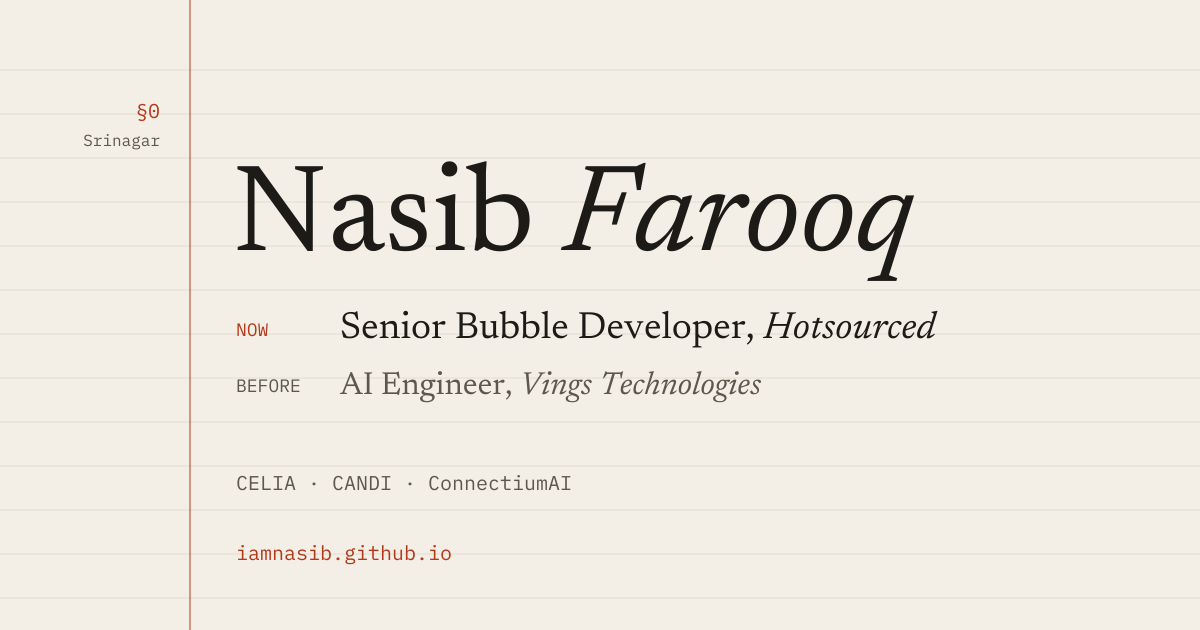
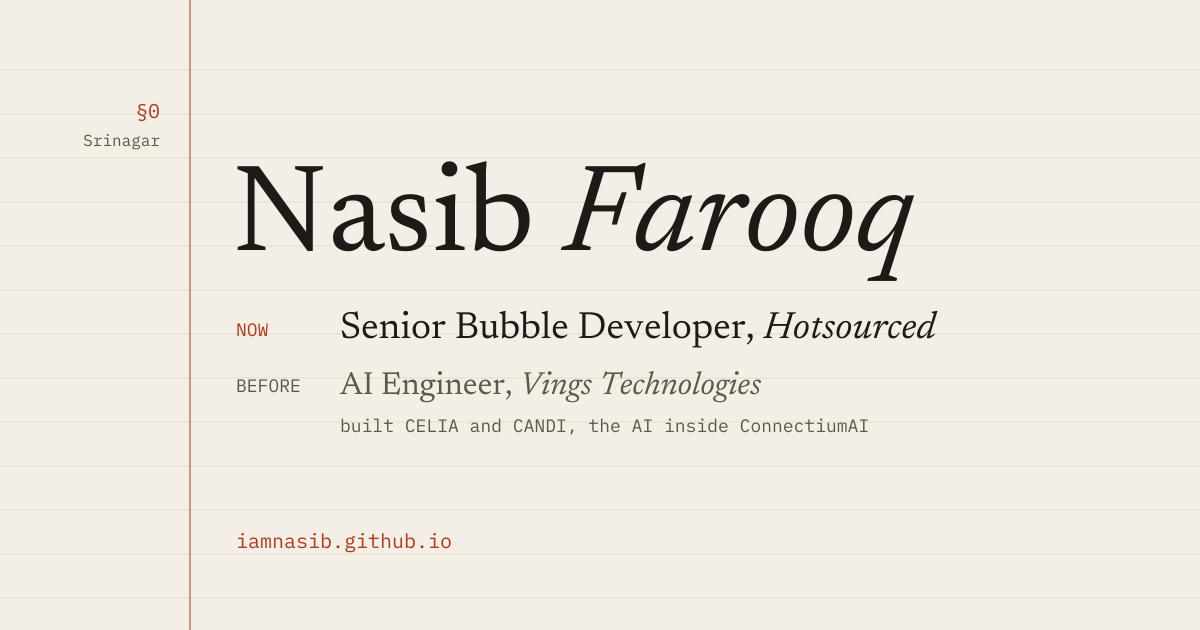
Show CELIA and CANDI as parts of ConnectiumAI
- Share card: replace the flat "CELIA · CANDI · ConnectiumAI" line with
  "built CELIA and CANDI, the AI inside ConnectiumAI" under BEFORE;
  Hotsourced stays in the NOW line. og:image bumped to ?v=3
- Intro paragraph names ConnectiumAI as the platform they belong to
- §1/§2 margins: "part of ConnectiumAI"; contents §3 "Rest of ConnectiumAI"
- Meta descriptions use the same hierarchy and are shorter

Claude-Session: https://claude.ai/code/session_016WbChNEPCDqHJiR2x3LwX9

diff --git a/index.html b/index.html
@@ -16,7 +16,7 @@
     <title>Nasib Farooq — Senior Bubble Developer &amp; AI Engineer</title>
     <meta
       name="description"
-      content="Nasib Farooq, Senior Bubble Developer at Hotsourced and AI engineer. Built CELIA, a production voice interviewer, and CANDI, a RAG candidate search, at Vings Technologies."
+      content="Nasib Farooq, Senior Bubble Developer at Hotsourced and AI engineer. Built CELIA (voice interviewer) and CANDI (RAG search), the AI inside ConnectiumAI."
     />
     <meta name="author" content="Nasib Farooq" />
 
@@ -26,10 +26,10 @@
     <meta property="og:title" content="Nasib Farooq — Senior Bubble Developer &amp; AI Engineer" />
     <meta
       property="og:description"
-      content="Senior Bubble Developer at Hotsourced. Built CELIA, a voice interviewer, and CANDI, a RAG candidate search, at Vings Technologies."
+      content="Senior Bubble Developer at Hotsourced. Built CELIA and CANDI, the AI inside ConnectiumAI."
     />
     <meta property="og:url" content="https://iamnasib.github.io/" />
-    <meta property="og:image" content="https://iamnasib.github.io/og-image.png?v=2" />
+    <meta property="og:image" content="https://iamnasib.github.io/og-image.png?v=3" />
     <meta property="og:image:width" content="1200" />
     <meta property="og:image:height" content="630" />
     <meta property="og:image:alt" content="Nasib Farooq — Senior Bubble Developer &amp; AI Engineer" />
@@ -42,9 +42,9 @@
     <meta name="twitter:title" content="Nasib Farooq — Senior Bubble Developer &amp; AI Engineer" />
     <meta
       name="twitter:description"
-      content="Senior Bubble Developer at Hotsourced. Built CELIA, a voice interviewer, and CANDI, a RAG candidate search, at Vings Technologies."
+      content="Senior Bubble Developer at Hotsourced. Built CELIA and CANDI, the AI inside ConnectiumAI."
     />
-    <meta name="twitter:image" content="https://iamnasib.github.io/og-image.png?v=2" />
+    <meta name="twitter:image" content="https://iamnasib.github.io/og-image.png?v=3" />
 
     <!-- Structured data: Person -->
     <script type="application/ld+json">
@@ -53,14 +53,14 @@
         "@type": "Person",
         "name": "Nasib Farooq",
         "url": "https://iamnasib.github.io/",
-        "image": "https://iamnasib.github.io/og-image.png?v=2",
+        "image": "https://iamnasib.github.io/og-image.png?v=3",
         "jobTitle": "Senior Bubble Developer",
         "worksFor": {
           "@type": "Organization",
           "name": "Hotsourced",
           "url": "https://hotsourced.io"
         },
-        "description": "Nasib Farooq, Senior Bubble Developer at Hotsourced and AI engineer. Built CELIA, a production voice interviewer, and CANDI, a RAG candidate search, at Vings Technologies.",
+        "description": "Nasib Farooq, Senior Bubble Developer at Hotsourced and AI engineer. Built CELIA (voice interviewer) and CANDI (RAG search), the AI inside ConnectiumAI.",
         "address": {
           "@type": "PostalAddress",
           "addressLocality": "Srinagar",

diff --git a/src/data/content.js b/src/data/content.js
@@ -24,13 +24,14 @@ export const intro = {
   before: { role: 'AI Engineer', org: 'Vings Technologies' },
   paragraphs: [
     "I've been building software in Srinagar, Kashmir, since 2021. Today I build and maintain production Bubble.io applications at Hotsourced.",
-    "Before that, at Vings Technologies, I built AI systems for hiring: CELIA, a voice agent that interviews candidates, and CANDI, the search that lets recruiters find the right ones afterwards. These are my notes on that work.",
+    "Before that, at Vings Technologies, I built the AI inside ConnectiumAI, a hiring platform: CELIA, a voice agent that interviews candidates, and CANDI, the search that lets recruiters find the right ones afterwards. These are my notes on that work.",
   ],
 }
 
 // ─── §1 CELIA ────────────────────────────────────────────────
 
 export const celia = {
+  partOf: 'ConnectiumAI',
   where: 'Vings Technologies',
   when: '2024–26',
   stack: ['Python', 'Pipecat', 'FastAPI', 'Daily.co', 'OpenAI', 'Silero VAD', 'Modal'],
@@ -47,6 +48,7 @@ export const celia = {
 // ─── §2 CANDI ────────────────────────────────────────────────
 
 export const candi = {
+  partOf: 'ConnectiumAI',
   where: 'Vings Technologies',
   when: '2024–26',
   stack: ['Python', 'Qdrant', 'Embeddings', 'Hybrid search', 'Re-ranker'],
@@ -156,7 +158,7 @@ export const education = [
 export const contents = [
   { id: 'celia', mark: '§1', label: 'CELIA' },
   { id: 'candi', mark: '§2', label: 'CANDI' },
-  { id: 'connectium', mark: '§3', label: 'ConnectiumAI' },
+  { id: 'connectium', mark: '§3', label: 'Rest of ConnectiumAI' },
   { id: 'side', mark: '§4', label: 'On the side' },
   { id: 'work', mark: '§5', label: 'Work log' },
   { id: 'toolbox', mark: '§6', label: 'Toolbox & education' },

diff --git a/src/components/CaseStudies.jsx b/src/components/CaseStudies.jsx
@@ -6,6 +6,8 @@ function Meta({ item, extra }) {
   return (
     <div className="mt-1 space-y-3">
       <p>
+        <span className="text-ink">part of {item.partOf}</span>
+        <br />
         {item.where}
         <br />
         {item.when}
